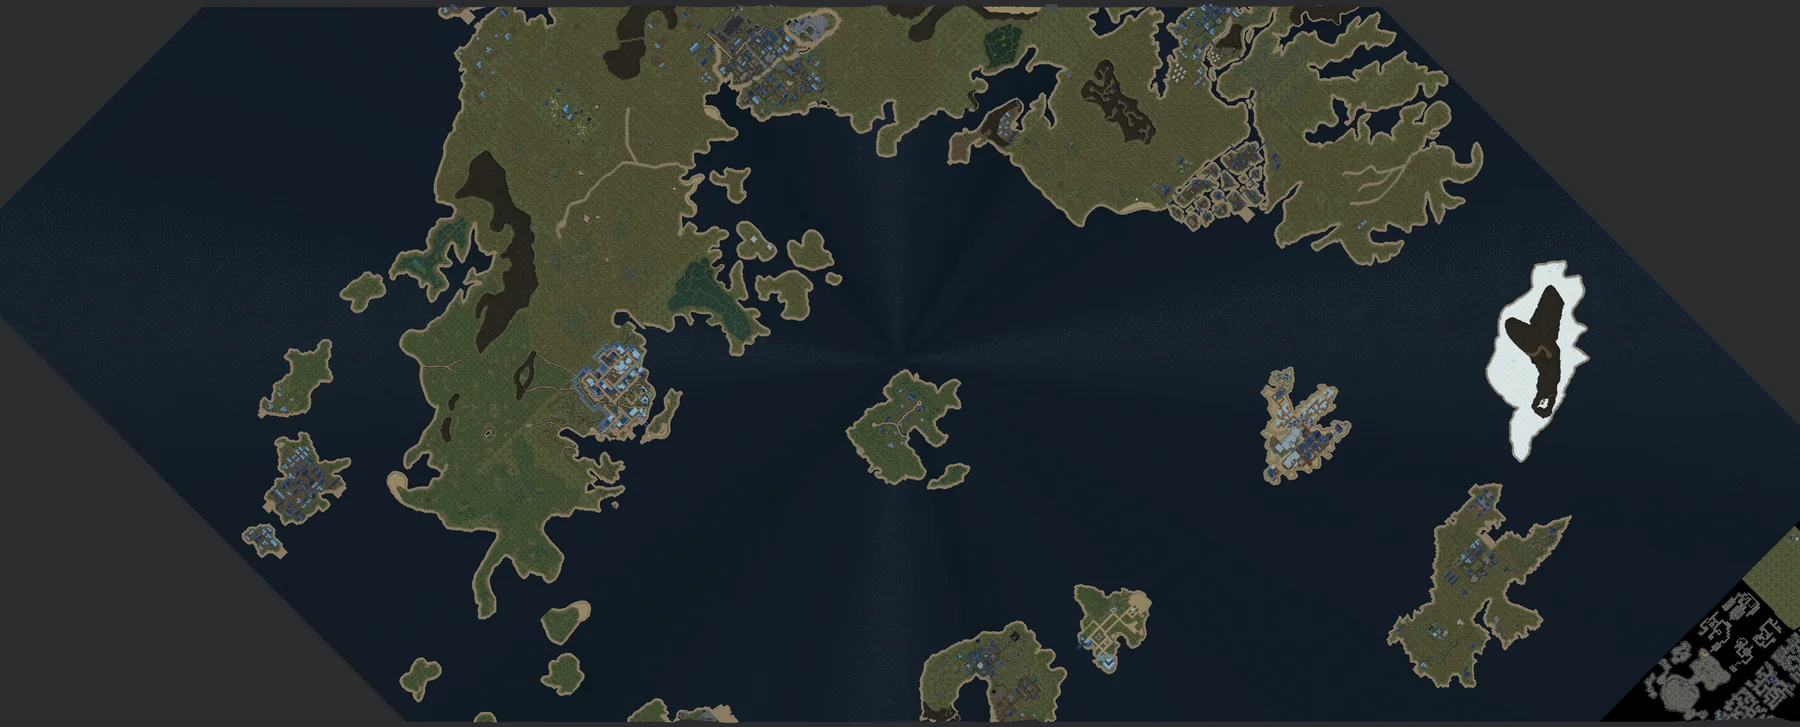
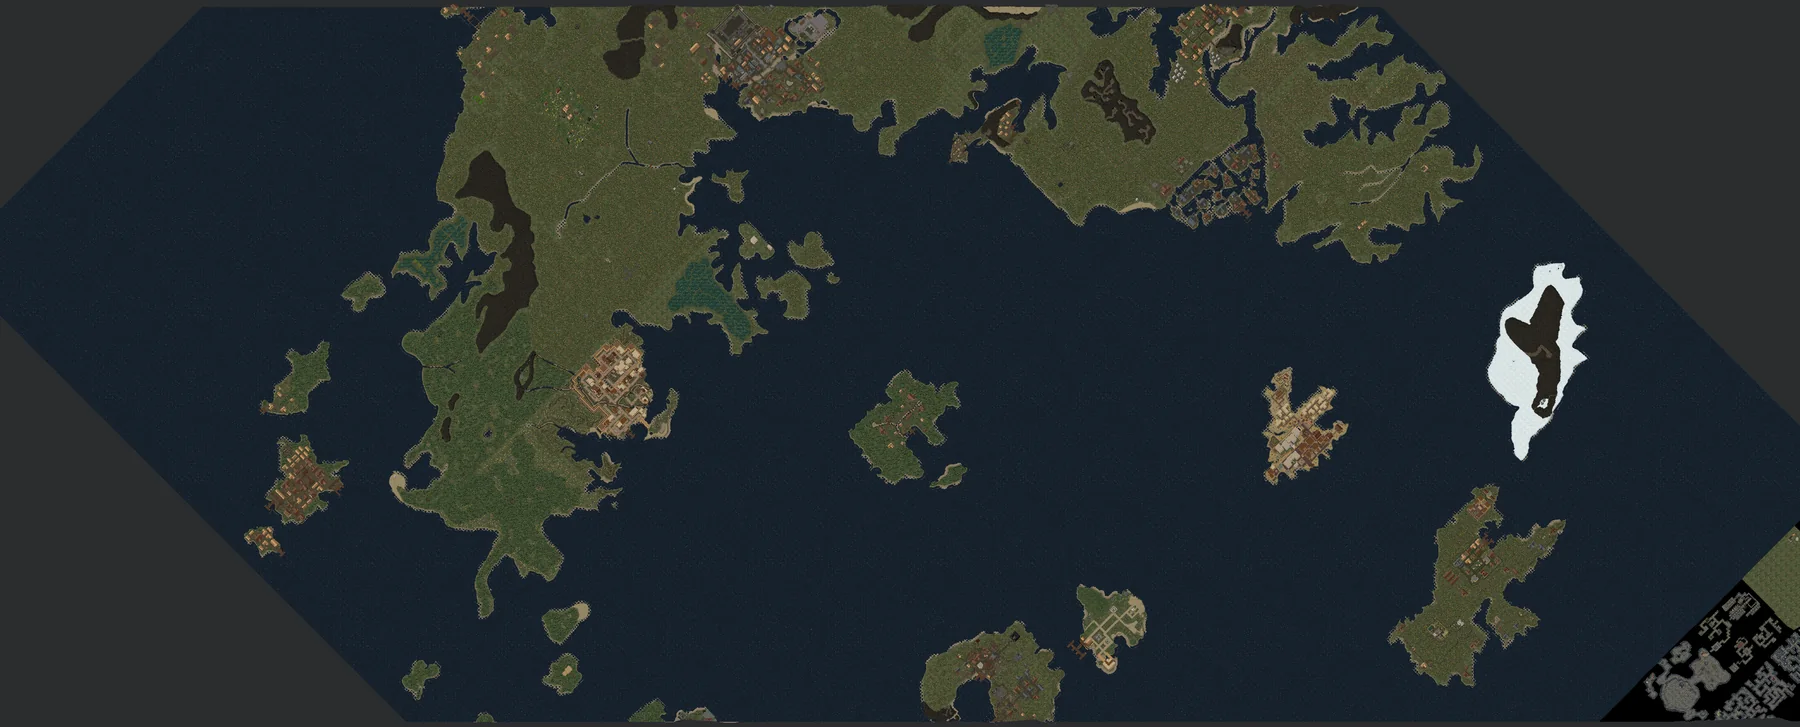
Keep shoreline water textured at overview zoom

diff --git a/dynamapper/src/render/statics/statics_collect.rs b/dynamapper/src/render/statics/statics_collect.rs
@@ -21,6 +21,7 @@ use crate::content::{
 };
 use crate::prelude::*;
 use super::client_grunge::STATIC_FLAG_CLIENT_GRUNGE;
+use super::static_batches::STATIC_FLAG_CC_WATER_FILL;
 use bevy::prelude::*;
 use bevy::platform::collections::HashSet;
 use std::collections::HashMap;
@@ -954,8 +955,14 @@ fn emit_static_render_tile(
     build: &mut StaticChunkBuildState,
 ) {
     let enhanced_package = resources.tilemeta_package();
-    let enhanced_tilemeta = enhanced_package.and_then(|meta| meta.item_tile(render_tile.graphic as u32));
-    let visual_kind = frame.art_source.filter(|_| !frame.is_dot_mode).map(|source| {
+    let graphic = u32::from(render_tile.graphic);
+    let enhanced_tilemeta = enhanced_package.and_then(|meta| meta.item_tile(graphic));
+    // Resolve the same art and material as at street level for liquid statics. Avoid
+    // resolving the full art inventory for ordinary radar statics.
+    let visual_kind = frame.art_source.filter(|_| !frame.is_dot_mode
+        || enhanced_tilemeta.is_some_and(|meta| meta.is_wet())
+        || enhanced_package.is_some_and(|package| package.uses_water_shader(graphic))
+        || resources.kingdom_reborn.is_some_and(|kr| kr.tilemeta.uses_water_shader(graphic))).map(|source| {
         let kind = resolve_static_visual_kind_cached(source, frame.land_style, render_tile.graphic, enhanced_package,
             enhanced_tilemeta, resources.tex_art_cc_package(), resources.tex_art_ec_package(),
             resources.tex_land_ec_package(), surface_resolution_cache);
@@ -963,12 +970,20 @@ fn emit_static_render_tile(
             enhanced_tilemeta, resources.tex_art_ec_package(), resources.tex_land_ec_package(), kr,
             surface_resolution_cache))
             .unwrap_or(kind)
+    }).filter(|kind| !frame.is_dot_mode || match kind {
+        StaticVisualKind::TexLandEc { resolution } => resolution.liquid_payload.is_some(),
+        StaticVisualKind::CcRegular { .. } | StaticVisualKind::EcSurface { .. } => {
+            let (package, meta) = drawn_tile_data(Some(*kind), render_tile.graphic, enhanced_package,
+                resources.tilemeta_package_for_art(Some(ClientTextureSource::Cc)), resources.kingdom_reborn);
+            static_visual_renders_wet(*kind, meta, package, graphic)
+        }
+        _ => false,
     });
     // From here on the static is drawn by the tile data of the art it is drawn from (`drawn_tile_data`).
     let (tilemeta_package, tilemeta) =
         drawn_tile_data(visual_kind, render_tile.graphic, enhanced_package,
             resources.tilemeta_package_for_art(Some(ClientTextureSource::Cc)), resources.kingdom_reborn);
-    if !frame.is_dot_mode && tilemeta.is_some_and(|meta| meta.is_nodraw()) {
+    if visual_kind.is_some() && tilemeta.is_some_and(|meta| meta.is_nodraw()) {
         return;
     }
     let (cell_x, cell_y) = (render_tile.world_x as i32, render_tile.world_z as i32);
@@ -1046,9 +1061,7 @@ fn emit_static_render_tile(
     };
 
     let before = (build.sprite_instances.len(), build.ground_instances.len());
-    if frame.is_dot_mode {
-        emit_dot_static_tile(info, frame, resources, build);
-    } else if let Some(visual_kind) = visual_kind {
+    if let Some(visual_kind) = visual_kind {
         emit_art_static_tile(
             info,
             frame,
@@ -1058,6 +1071,9 @@ fn emit_static_render_tile(
             ground_atlas,
             build,
         );
+    }
+    if frame.is_dot_mode && before == (build.sprite_instances.len(), build.ground_instances.len()) {
+        emit_dot_static_tile(info, frame, resources, build);
     }
     // Every instance has its pick tile and its cut, the dots' too.
     if before != (build.sprite_instances.len(), build.ground_instances.len()) {
@@ -1587,6 +1603,14 @@ fn emit_cc_surface_like_flat_static_instance(
     hue_flags: u32,
     build: &mut StaticChunkBuildState,
 ) {
+    // The six opaque water diamonds share the Classic sea's art family.
+    // Adjacent foam graphics have their own authored shape and are filtered.
+    const CLASSIC_WATER_FILLS: std::ops::RangeInclusive<u16> = 0x1797..=0x179C;
+    let water_fill = if frame.is_dot_mode && CLASSIC_WATER_FILLS.contains(&info.tile.graphic) {
+        STATIC_FLAG_CC_WATER_FILL
+    } else {
+        0
+    };
     let bounds = resolve_cc_surface_like_flat_quad_bounds(
         resolved.logical_width,
         resolved.logical_height,
@@ -1629,7 +1653,7 @@ fn emit_cc_surface_like_flat_static_instance(
         tile_y,
         priority_z_units,
         sort_bias_ordinal: 0,
-        is_wet_flags: info.is_wet_flags | info.client_grunge_flag,
+        is_wet_flags: info.is_wet_flags | info.client_grunge_flag | water_fill,
         hue_id,
         hue_flags,
         flat_quad: FLAT_QUAD_CC_FLAT,

diff --git a/dynamapper/src/render/assets/land/liquid_sampling_tests.rs b/dynamapper/src/render/assets/land/liquid_sampling_tests.rs
@@ -137,6 +137,10 @@ fn sample_tile_albedo_grad(uv: vec2<f32>, tile: TileUniform, dx: vec2<f32>, dy: 
             include_str!("../../../../assets/shaders/world/land/cc_transitions.wesl"),
             "shaders/world/land/cc_transitions.wesl",
         ));
+        shaders.set_shader(shader_id(18), Shader::from_wesl(
+            include_str!("../../../../assets/shaders/world/land/transitions.wesl"),
+            "shaders/world/land/transitions.wesl",
+        ));
         shaders.set_shader(shader_id(0), Shader::from_wesl(r#"
 import package::shaders::world::ec_liquid::{EcLiquidSlot, ec_liquid_sample, ec_liquid_reflection_uv, ec_liquid_original_view};
 import package::shaders::world::ec_item_surface::apply_ec_item_surface;
@@ -217,11 +221,11 @@ fn main() {
     samples[32] = vec4<f32>(ec_liquid_reflection_uv(ec_liquid_original_view(vec3<f32>(0.0, 1.0, 0.0))), 0.0, 0.0);
     let lit = vec4<f32>(0.4, 0.3, 0.2, 0.8);
     samples[33] = apply_ec_item_liquid(lit, atlas, item_lookup, linear_sampler, 0u,
-        vec2<f32>(0.5), vec2<f32>(0.0), 0.0, false, true);
+        vec2<f32>(0.5), vec2<f32>(0.0), 0.0, false, true, vec2<f32>(0.0));
     samples[34] = apply_ec_item_liquid(lit, atlas, item_lookup, linear_sampler, 1u,
-        vec2<f32>(0.5), vec2<f32>(0.0), 0.0, false, true);
+        vec2<f32>(0.5), vec2<f32>(0.0), 0.0, false, true, vec2<f32>(0.0));
     samples[35] = apply_ec_item_liquid(lit, atlas, item_lookup, linear_sampler, 2u,
-        vec2<f32>(0.5), vec2<f32>(0.0), 0.0, false, true);
+        vec2<f32>(0.5), vec2<f32>(0.0), 0.0, false, true, vec2<f32>(0.0));
     samples[36] = vec4<f32>(ec_item_quad_screen(vec2<f32>(0.0)), 0.0, 1.0);
     samples[37] = vec4<f32>(ec_item_quad_screen(vec2<f32>(1.0, 0.0)), 0.0, 1.0);
     samples[38] = vec4<f32>(ec_item_quad_screen(vec2<f32>(0.0, 1.0)), 0.0, 1.0);
@@ -312,6 +316,9 @@ fn main() {
         let input = projection_inputs[index];
         samples[111u + index] = camera_relative_world_to_clip(input.origin.xyz, input.offset.xyz) * input.offset.w;
     }
+    // The centre falls on a transparent texel, but the footprint covers part of its opaque neighbours.
+    samples[117] = apply_ec_item_liquid(lit, atlas, item_lookup, linear_sampler, 0u,
+        vec2<f32>(0.75), vec2<f32>(0.0), 0.0, false, true, vec2<f32>(1.0));
 }
 "#, "shaders/test/liquid_sampling_gpu.wesl"));
         let wgsl = shaders.get(0, shader_id(0), &[]).unwrap();
@@ -381,7 +388,7 @@ fn main() {
             offset: 0, bytes_per_row: Some(6 * 16), rows_per_image: Some(1),
         }, item_lookup.size());
         let item_view = item_lookup.create_view(&wgpu::TextureViewDescriptor::default());
-        let result_size = 117 * 16;
+        let result_size = 118 * 16;
         let output = device.create_buffer(&wgpu::BufferDescriptor {
             label: None, size: result_size, mapped_at_creation: false,
             usage: wgpu::BufferUsages::STORAGE | wgpu::BufferUsages::COPY_SRC,
@@ -561,7 +568,9 @@ fn main() {
             let cpu = bank_vertex(cell, Vec2::new(1.0, -1.0), &read).unwrap() - Vec3::new(cell.x as f32, 0.0, cell.y as f32);
             assert!((cpu - Vec3::from_slice(&actual[index][..3])).abs().max_element() < 0.0001, "bank cursor case {index}");
         }
-        assert_eq!(actual.len(), expected.len());
+        assert_eq!(actual.len(), expected.len() + 1);
+        let wide_mask_alpha = (normalized[0][3] + 3.0 * (normalized[1][3] + normalized[2][3])) / 16.0;
+        assert!((actual[117][3] - wide_mask_alpha).abs() < 0.001, "wide shoreline coverage");
         for (sample, (actual, expected)) in actual.iter().zip(expected).enumerate() {
             for channel in 0..4 {
                 assert!((actual[channel] - expected[channel]).abs() < 0.001,

diff --git a/dynamapper/src/render/statics/static_batches.rs b/dynamapper/src/render/statics/static_batches.rs
@@ -28,6 +28,8 @@ pub(crate) const STATIC_FLAG_CAP_MEETS_FLOOR: u32 = 1 << 24;
 /// (`static_continues_land`) or is foliage, so it takes the land's colour grading, KR-like's chroma knee included; the
 /// other statics keep their own colour (`land_grade_flag`). Kept in sync with art/shading.wesl.
 pub(crate) const STATIC_FLAG_LAND_GRADE: u32 = 1 << 25;
+/// A plain Classic water diamond in the overview keeps the same sampling as the sea.
+pub(super) const STATIC_FLAG_CC_WATER_FILL: u32 = 1 << 26;
 
 #[derive(Clone, Copy, Debug, PartialEq)]
 pub(crate) struct StaticRenderTile {

diff --git a/dynamapper/src/render/assets/land.rs b/dynamapper/src/render/assets/land.rs
@@ -1980,7 +1980,7 @@ fn fragment() -> @location(0) vec4<f32> {
         0u, uv, ec_liquid_world_uv(uv), reflection_uv, 0.0, true, true).rgb;
     let liquid = apply_ec_item_liquid(vec4<f32>(color, normal.w),
         land_page_atlas, land_page_lookup, tex_small_sampler, 6038u,
-        uv, uv, 0.0, true, true);
+        uv, uv, 0.0, true, true, vec2<f32>(0.0));
     return apply_ec_item_surface(liquid, land_page_atlas, land_page_lookup, tex_small_sampler,
         vec4<u32>(0u), uv, uv, true, true);
 }

diff --git a/skills/renderer-reference-validation/scripts/visual_harness.py b/skills/renderer-reference-validation/scripts/visual_harness.py
@@ -81,7 +81,7 @@ CAMERAS = ('orthographic', 'perspective')
 MAX_MAP = 5
 MAX_COORD = 7168
 MIN_Z, MAX_Z = -128, 127
-MIN_ZOOM, MAX_ZOOM = 0.1, 20.0
+MIN_ZOOM, MAX_ZOOM = 0.25, 50.0  # RenderZoom bounds in render/view/camera.rs.
 MAX_PIXEL_THRESHOLD = 255
 MAX_CHANGED_PCT = 100.0
 NAME_PATTERN = re.compile(r'^[a-z0-9]+(-[a-z0-9]+)*$')

diff --git a/docs/agent_notes/water_terrain_static_resolution.md b/docs/agent_notes/water_terrain_static_resolution.md
@@ -291,3 +291,25 @@ normals, contact shadow, the cobblestones' boundary fade, variation) changes
 it; the strip and the forest differ as their textures do, and UOD-Painterly's
 grading saturates the greener grass most (0.94 against 0.79 for the forest).
 No change was made.
+
+## Shoreline water in overview views
+
+The overview collector resolves liquid statics through the same source
+selection and draw paths as close views. Enhanced and KR ground items sample
+the active land atlas and keep their authored fourth-source coverage. Classic
+water keeps its flat art geometry and flat-water lighting. The ordinary
+0x1797–0x179C water fills use the same sampling as the Classic sea diamonds
+(0x1797 and land 0xA8 have the same pixels in the Classic atlas). Foam and
+partial coverage use a bounded premultiplied footprint filter. Dry statics
+retain the radar path.
+
+Terrain and static liquids share the camera reflection coordinates. These fade
+from zoom 10 to 20 because a near-camera projection stretches into spokes at
+facet scale. The world-space bump texture and liquids with explicit UVs retain
+their sampling.
+
+For overview comparisons, pin the renderer binary and verify the static
+collection digest and counts in the manifest. A separate build can replace the
+workspace executable while the shader tree still points at the current
+checkout. The pre-fix wide Minoc build dropped the low water and exposed its dry
+seabed, even with the corrected radar shader loaded.

diff --git a/docs/SHOWCASE.md b/docs/SHOWCASE.md
@@ -109,9 +109,9 @@ In **F2 → Graphics**, enable **Show Only the Player's Floor**. **Only the Play
 
 Both captures are centered on the same point in Britain. The wide view covers 32 times as much world width as the close view.
 
-At scale 20 and wider, Dynamapper draws statics in their packed radar colors. Exposed river and shoreline water statics appear as solid cell fills, so the authored foam shapes and transparent edges are lost at this scale.
+At scale 20 and wider, ordinary statics use packed radar colors. River and shoreline water keep their liquid materials, with foam and transparent edges filtered as the view zooms out.
 
-![Wide KR-like view of Minoc and its river with statics in radar colors](images/showcase/world-zoom-minoc-overview.webp)
+![Wide KR-like view of Minoc with textured river water and shoreline foam](images/showcase/world-zoom-minoc-overview.webp)
 
 *Minoc at scale 20 with Enhanced art and Kingdom Reborn terrain.*
 
